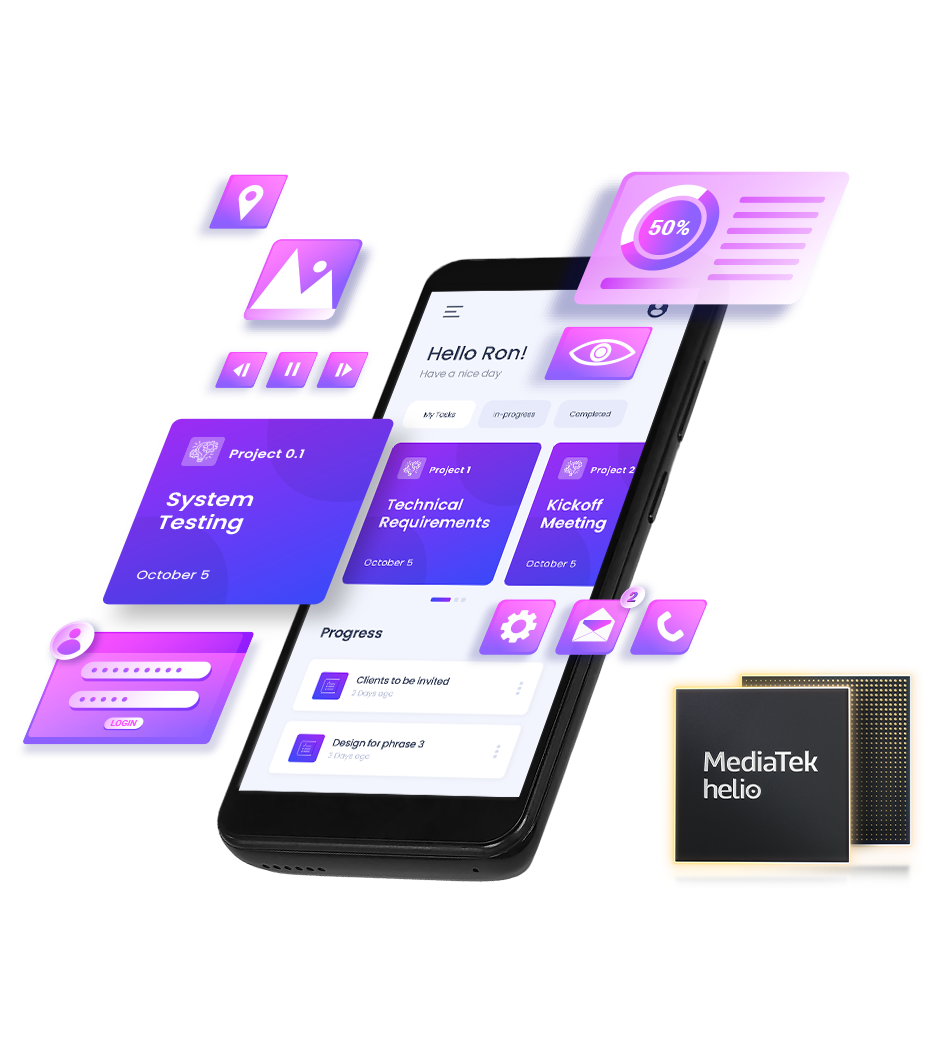
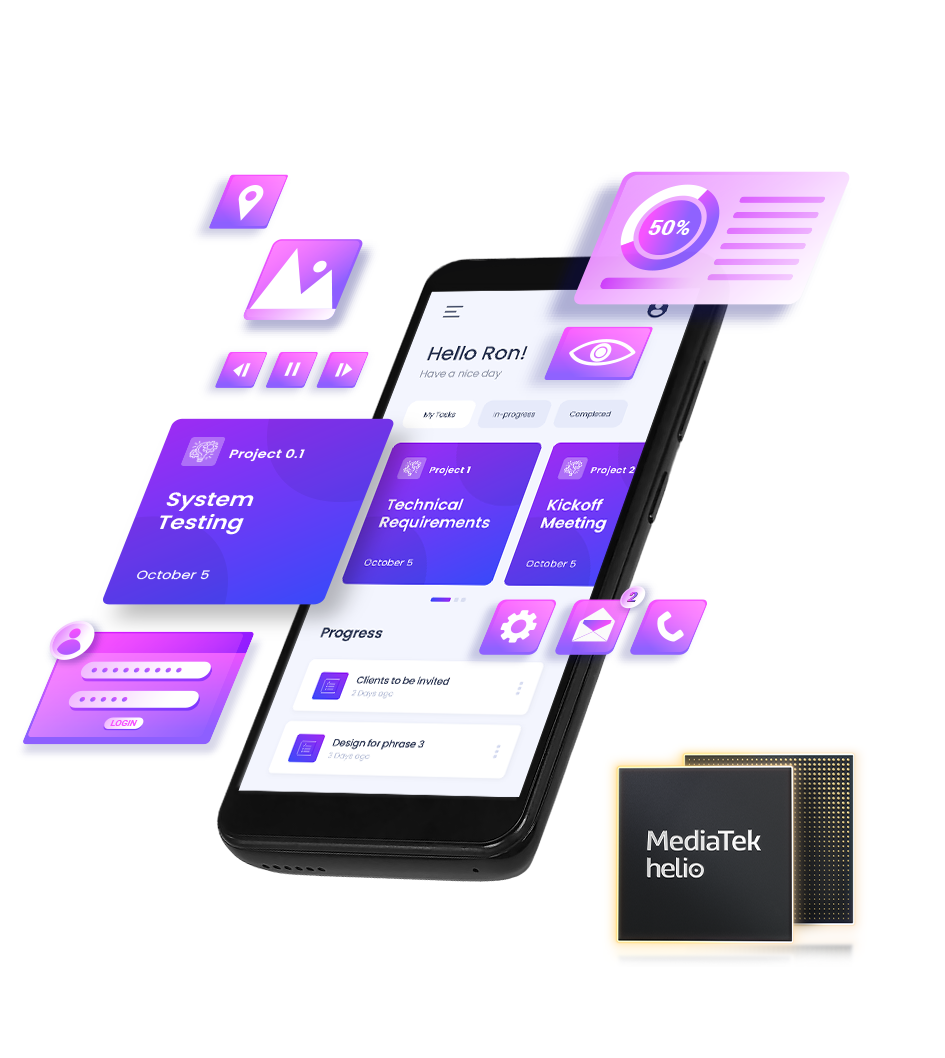
update feature 3 and 4 images

Changed region(s): [[0.6444, 0.6238, 0.982, 0.9045]]

diff --git a/css/style.css b/css/style.css
@@ -384,9 +384,9 @@ a {
 }
 
 .feature-background.visible .feature-image-3 {
-    height: 650px;
-    top: -135px;
-    left: 0;
+    height: 620px;
+    top: -120px;
+    left: 20px;
 }
 
 .feature-background.visible .feature-image-4 {

diff --git a/css/responsive.css b/css/responsive.css
@@ -18,7 +18,7 @@
     }
     .feature-background.visible .feature-image-3 {
         top: -5%;
-        right: 5%;
+        left: 20px;
         height: 550px;
     }
     .feature-background.visible .feature-image-4 {
